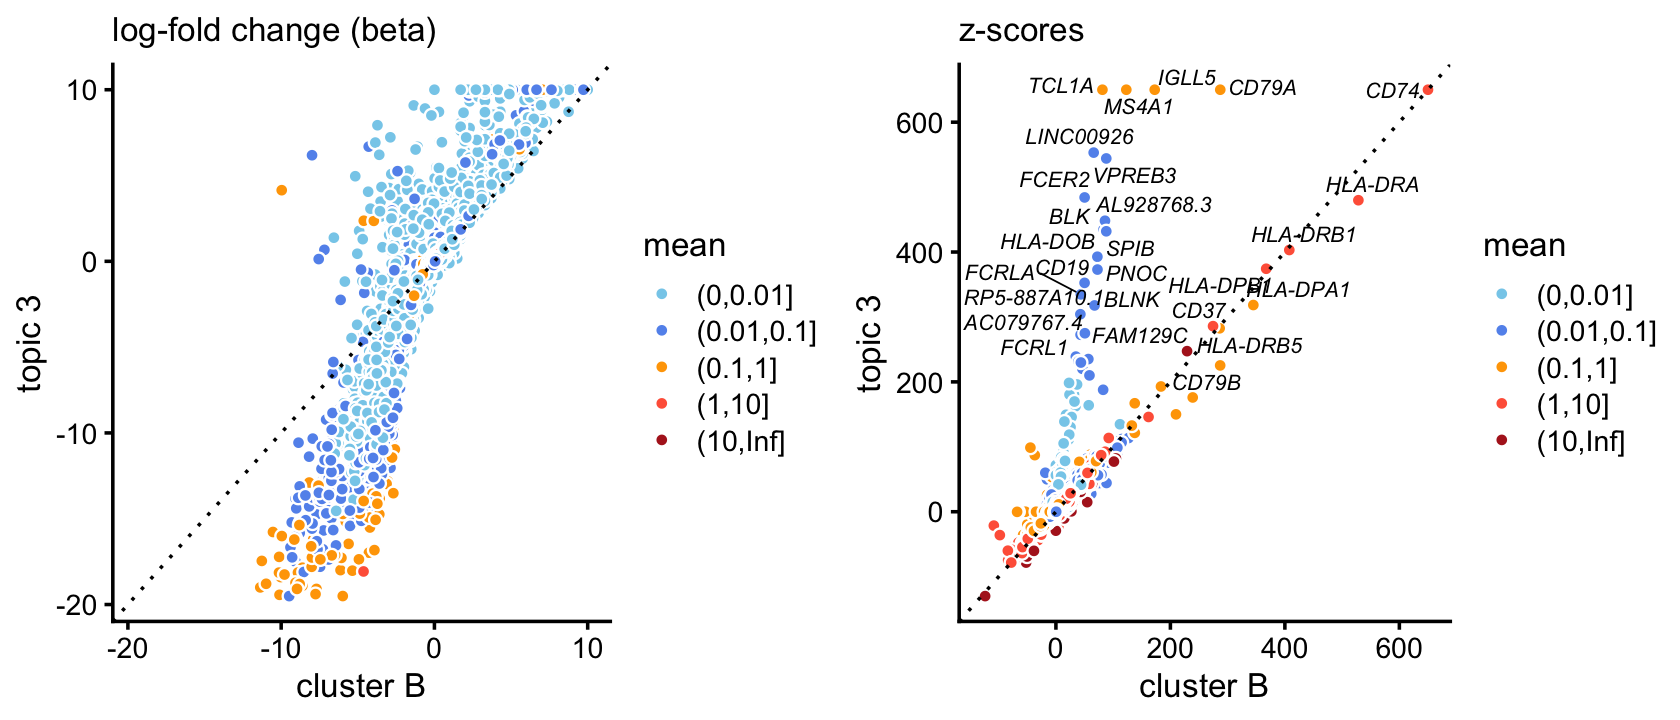
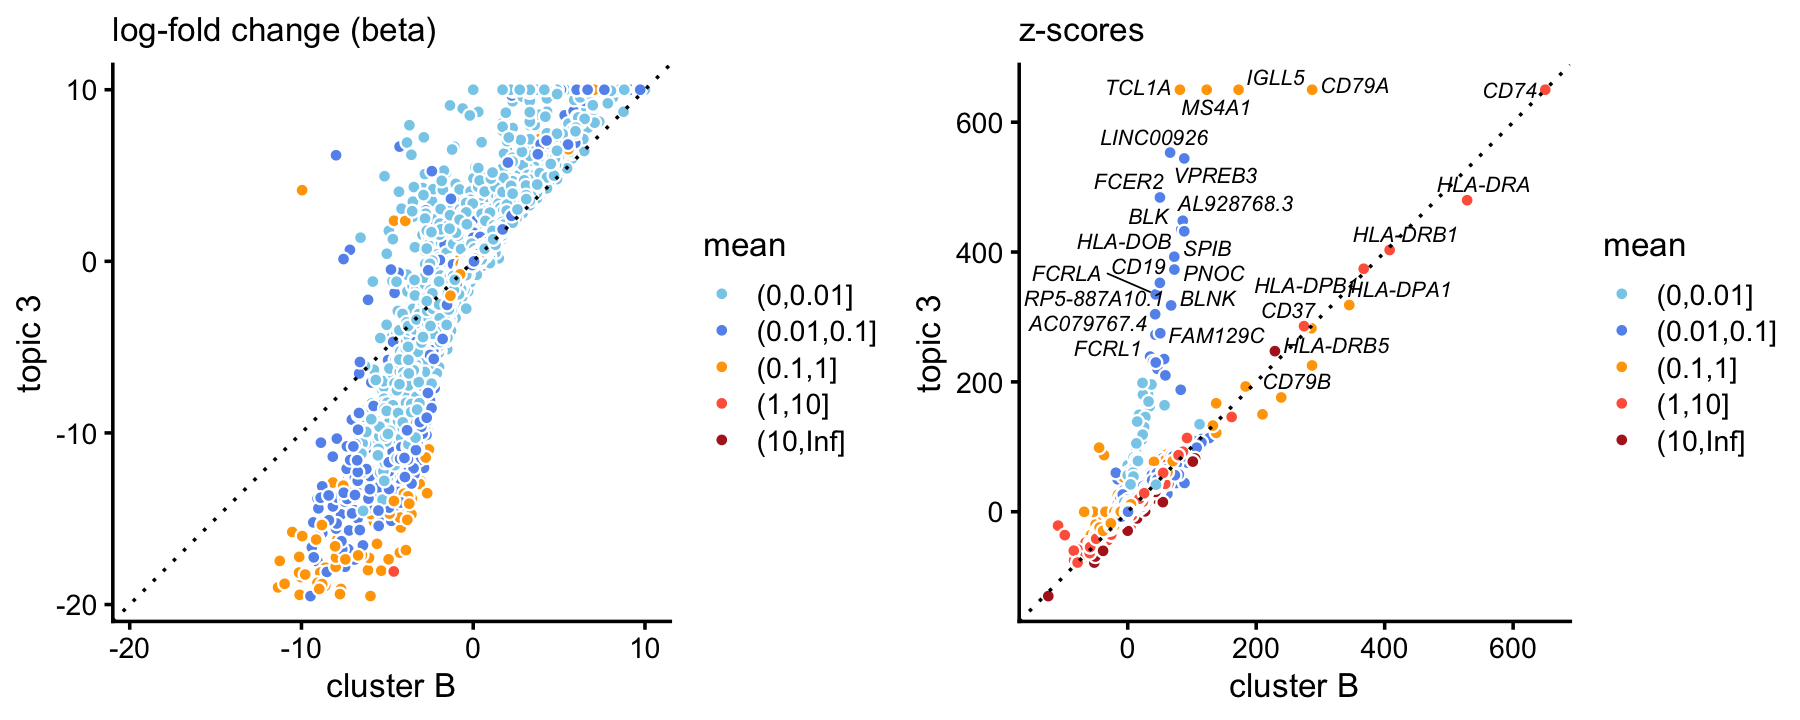
Build site.

diff --git a/docs/bcells_and_nkcells.html b/docs/bcells_and_nkcells.html
@@ -305,7 +305,7 @@ $(document).ready(function () {
 
 <p>
 <button type="button" class="btn btn-default btn-workflowr btn-workflowr-report" data-toggle="collapse" data-target="#workflowr-report">
-<span class="glyphicon glyphicon-list" aria-hidden="true"></span> workflowr <span class="glyphicon glyphicon-ok text-success" aria-hidden="true"></span>
+<span class="glyphicon glyphicon-list" aria-hidden="true"></span> workflowr <span class="glyphicon glyphicon-exclamation-sign text-danger" aria-hidden="true"></span>
 </button>
 </p>
 <div id="workflowr-report" class="collapse">
@@ -314,7 +314,7 @@ $(document).ready(function () {
 <a data-toggle="tab" href="#summary">Summary</a>
 </li>
 <li>
-<a data-toggle="tab" href="#checks"> Checks <span class="glyphicon glyphicon-ok text-success" aria-hidden="true"></span> </a>
+<a data-toggle="tab" href="#checks"> Checks <span class="glyphicon glyphicon-exclamation-sign text-danger" aria-hidden="true"></span> </a>
 </li>
 <li>
 <a data-toggle="tab" href="#versions">Past versions</a>
@@ -326,7 +326,7 @@ $(document).ready(function () {
 <strong>Last updated:</strong> 2020-09-10
 </p>
 <p>
-<strong>Checks:</strong> <span class="glyphicon glyphicon-ok text-success" aria-hidden="true"></span> 7 <span class="glyphicon glyphicon-exclamation-sign text-danger" aria-hidden="true"></span> 0
+<strong>Checks:</strong> <span class="glyphicon glyphicon-ok text-success" aria-hidden="true"></span> 6 <span class="glyphicon glyphicon-exclamation-sign text-danger" aria-hidden="true"></span> 1
 </p>
 <p>
 <strong>Knit directory:</strong> <code>single-cell-topics/analysis/</code> <span class="glyphicon glyphicon-question-sign" aria-hidden="true" title="This is the local directory in which the code in this file was executed."> </span>
@@ -390,12 +390,27 @@ This reproducible <a href="http://rmarkdown.rstudio.com">R Markdown</a> analysis
 <div class="panel panel-default">
 <div class="panel-heading">
 <p class="panel-title">
-<a data-toggle="collapse" data-parent="#workflowr-checks" href="#strongCachestrongnone"> <span class="glyphicon glyphicon-ok text-success" aria-hidden="true"></span> <strong>Cache:</strong> none </a>
+<a data-toggle="collapse" data-parent="#workflowr-checks" href="#strongCachestrongdetected"> <span class="glyphicon glyphicon-exclamation-sign text-danger" aria-hidden="true"></span> <strong>Cache:</strong> detected </a>
 </p>
 </div>
-<div id="strongCachestrongnone" class="panel-collapse collapse">
+<div id="strongCachestrongdetected" class="panel-collapse collapse">
 <div class="panel-body">
-<p>Nice! There were no cached chunks for this analysis, so you can be confident that you successfully produced the results during this run.</p>
+The following chunks had caches available:
+<ul>
+<li>
+diff-count-analysis-clusters-68k
+</li>
+<li>
+diff-count-analysis-clusters-purified
+</li>
+<li>
+diff-count-analysis-pbmc-68k
+</li>
+<li>
+diff-count-analysis-pbmc-purified
+</li>
+</ul>
+<p>To ensure reproducibility of the results, delete the cache directory <code>bcells_and_nkcells_cache</code> and re-run the analysis. To have workflowr automatically delete the cache directory prior to building the file, set <code>delete_cache = TRUE</code> when running <code>wflow_build()</code> or <code>wflow_publish()</code>.</p>
 </div>
 </div>
 </div>
@@ -414,16 +429,16 @@ This reproducible <a href="http://rmarkdown.rstudio.com">R Markdown</a> analysis
 <div class="panel panel-default">
 <div class="panel-heading">
 <p class="panel-title">
-<a data-toggle="collapse" data-parent="#workflowr-checks" href="#strongRepositoryversionstrongahrefhttpsgithubcomstephenslabsinglecelltopicstree5a29ee04a5f2f3c1c5ec0107da42f79c2cad2c09targetblank5a29ee0a"> <span class="glyphicon glyphicon-ok text-success" aria-hidden="true"></span> <strong>Repository version:</strong> <a href="https://github.com/stephenslab/single-cell-topics/tree/5a29ee04a5f2f3c1c5ec0107da42f79c2cad2c09" target="_blank">5a29ee0</a> </a>
+<a data-toggle="collapse" data-parent="#workflowr-checks" href="#strongRepositoryversionstrongahrefhttpsgithubcomstephenslabsinglecelltopicstreebfdd87662263d8f19ca0c98a34f386b5acd5a230targetblankbfdd876a"> <span class="glyphicon glyphicon-ok text-success" aria-hidden="true"></span> <strong>Repository version:</strong> <a href="https://github.com/stephenslab/single-cell-topics/tree/bfdd87662263d8f19ca0c98a34f386b5acd5a230" target="_blank">bfdd876</a> </a>
 </p>
 </div>
[2 lines of base64/hex data omitted]
 <div class="panel-body">
 <p>
 Great! You are using Git for version control. Tracking code development and connecting the code version to the results is critical for reproducibility.
 </p>
 <p>
-The results in this page were generated with repository version <a href="https://github.com/stephenslab/single-cell-topics/tree/5a29ee04a5f2f3c1c5ec0107da42f79c2cad2c09" target="_blank">5a29ee0</a>. See the <em>Past versions</em> tab to see a history of the changes made to the R Markdown and HTML files.
+The results in this page were generated with repository version <a href="https://github.com/stephenslab/single-cell-topics/tree/bfdd87662263d8f19ca0c98a34f386b5acd5a230" target="_blank">bfdd876</a>. See the <em>Past versions</em> tab to see a history of the changes made to the R Markdown and HTML files.
 </p>
 <p>
 Note that you need to be careful to ensure that all relevant files for the analysis have been committed to Git prior to generating the results (you can use <code>wflow_publish</code> or <code>wflow_git_commit</code>). workflowr only checks the R Markdown file, but you know if there are other scripts or data files that it depends on. Below is the status of the Git repository when the results were generated:
@@ -442,6 +457,9 @@ Ignored files:
     Ignored:    output/pbmc-purified/rds/
     Ignored:    output/pulseseq/fits-pulseseq.RData
     Ignored:    output/pulseseq/rds/
+
+Untracked files:
+    Untracked:  analysis/bcells_and_nkcells_cache/
 
 </code></pre>
 <p>
@@ -480,6 +498,40 @@ Message
 </tr>
 </thead>
 <tbody>
+<tr>
+<td>
+Rmd
+</td>
+<td>
+<a href="https://github.com/stephenslab/single-cell-topics/blob/bfdd87662263d8f19ca0c98a34f386b5acd5a230/analysis/bcells_and_nkcells.Rmd" target="_blank">bfdd876</a>
+</td>
+<td>
+Peter Carbonetto
+</td>
+<td>
+2020-09-10
+</td>
+<td>
+workflowr::wflow_publish(“bcells_and_nkcells.Rmd”, verbose = TRUE)
+</td>
+</tr>
+<tr>
+<td>
+html
+</td>
+<td>
+<a href="https://rawcdn.githack.com/stephenslab/single-cell-topics/23834e36dfc7b62c2be1a456220157034ca9974d/docs/bcells_and_nkcells.html" target="_blank">23834e3</a>
+</td>
+<td>
+Peter Carbonetto
+</td>
+<td>
+2020-09-10
+</td>
+<td>
+Fixed results in bcells_and_nkcells analysis after addressing
+</td>
+</tr>
 <tr>
 <td>
 Rmd
@@ -810,7 +862,7 @@ Added notes to plots_pbmc; committed pbmc-clustering.RData output.
 </div>
 </div>
 </div>
-<p>In the <a href="plots_pbmc.html">previous analysis</a> of the purified and 68k PBMC data sets, we identified clusters in both data sets corresponding to B-cells and natural killer cells. Each of these clusters is characterized by high proportions from a single topic. Here we show a surprising result: the clusters are enriched for the top marker genes for these cell types (e.g., <em>CD79A</em>, <em>NKG7</em>), but not the associated topics.</p>
+<p>In the <a href="plots_pbmc.html">previous analysis</a> of the purified and 68k PBMC data sets, we identified clusters in both data sets corresponding to B-cells and natural killer cells. Each of these clusters is characterized by high proportions from a single topic. Here we show that the clusters are enriched for top marker genes for these cell types (e.g., <em>CD79A</em>, <em>NKG7</em>), but the topics always show increased enrichment for these genes.</p>
 <p>Load the packages used in the analysis below.</p>
 <pre class="r"><code>library(Matrix)
 library(dplyr)
@@ -911,8 +963,45 @@ p2 &lt;- zscores_scatterplot(diff_count_clusters_purified$Z[,&quot;B&quot;],
                           zmax = 650) +
   labs(x = &quot;cluster B&quot;,y = &quot;topic 3&quot;,title = &quot;z-scores&quot;)
 plot_grid(p1,p2)</code></pre>
-<p><img src="figure/bcells_and_nkcells.Rmd/pbmc-purified-3-vs-B-1.png" width="840" style="display: block; margin: auto;" /></p>
-<p>B-cell marker <em>CD79A</em> only emerges in the cluster, and shows no enrichment in the corresponding topic. This is not a fluke—we observe the exact same result in the 68k data when we compare the gene-wise <em>z</em>-scores from topic 5 to the <em>z</em>-scores from cluster A2:</p>
+<p><img src="figure/bcells_and_nkcells.Rmd/pbmc-purified-3-vs-B-1.png" width="900" style="display: block; margin: auto;" /></p>
+<p>
+<button type="button" class="btn btn-default btn-xs btn-workflowr btn-workflowr-fig" data-toggle="collapse" data-target="#fig-pbmc-purified-3-vs-B-1">
+Past versions of pbmc-purified-3-vs-B-1.png
+</button>
+</p>
+<div id="fig-pbmc-purified-3-vs-B-1" class="collapse">
+<div class="table-responsive">
+<table class="table table-condensed table-hover">
+<thead>
+<tr>
+<th>
+Version
+</th>
+<th>
+Author
+</th>
+<th>
+Date
+</th>
+</tr>
+</thead>
+<tbody>
+<tr>
+<td>
+<a href="https://github.com/stephenslab/single-cell-topics/blob/23834e36dfc7b62c2be1a456220157034ca9974d/docs/figure/bcells_and_nkcells.Rmd/pbmc-purified-3-vs-B-1.png" target="_blank">23834e3</a>
+</td>
+<td>
+Peter Carbonetto
+</td>
+<td>
+2020-09-10
+</td>
+</tr>
+</tbody>
+</table>
+</div>
+</div>
+<p>B-cell marker <em>CD79A</em>, for example, emerges in the cluster and the topic, but its enrichment is much stronger in the topic. We observe the same result in the 68k data when we compare the gene-wise <em>z</em>-scores from topic 5 to the <em>z</em>-scores from cluster A2:</p>
 <pre class="r"><code>p3 &lt;- logfoldchange_scatterplot(diff_count_clusters_68k$beta[,&quot;A2&quot;],
                                 diff_count_68k$beta[,5],
                                 diff_count_68k$colmeans) +
@@ -925,7 +1014,7 @@ p4 &lt;- zscores_scatterplot(diff_count_clusters_68k$Z[,&quot;A2&quot;],
                           zmax = 500) +
   labs(x = &quot;cluster A2&quot;,y = &quot;topic 5&quot;,title = &quot;z-scores&quot;)
 plot_grid(p3,p4)</code></pre>
-<p><img src="figure/bcells_and_nkcells.Rmd/z-scores-pbmc-68k-5-vs-A2-1.png" width="840" style="display: block; margin: auto;" /></p>
+<p><img src="figure/bcells_and_nkcells.Rmd/z-scores-pbmc-68k-5-vs-A2-1.png" width="900" style="display: block; margin: auto;" /></p>
 <p>
 <button type="button" class="btn btn-default btn-xs btn-workflowr btn-workflowr-fig" data-toggle="collapse" data-target="#fig-z-scores-pbmc-68k-5-vs-A2-1">
 Past versions of z-scores-pbmc-68k-5-vs-A2-1.png
@@ -948,6 +1037,17 @@ Date
 </tr>
 </thead>
 <tbody>
+<tr>
+<td>
+<a href="https://github.com/stephenslab/single-cell-topics/blob/23834e36dfc7b62c2be1a456220157034ca9974d/docs/figure/bcells_and_nkcells.Rmd/z-scores-pbmc-68k-5-vs-A2-1.png" target="_blank">23834e3</a>
+</td>
+<td>
+Peter Carbonetto
+</td>
+<td>
+2020-09-10
+</td>
+</tr>
 <tr>
 <td>
 <a href="https://github.com/stephenslab/single-cell-topics/blob/8cdad6c2d9eea4282b8057cbd614a86ec8792db9/docs/figure/bcells_and_nkcells.Rmd/z-scores-pbmc-68k-5-vs-A2-1.png" target="_blank">8cdad6c</a>
@@ -977,7 +1077,7 @@ Peter Carbonetto
 </div>
 <div id="nk-cells" class="section level2">
 <h2>NK cells</h2>
-<p>We observe a similar—yet more striking—result in natural killer cells. In the purified data set, compare the gene-wise <em>z</em>-scores from topic 4 to the <em>z</em>-scores from cluster A1:</p>
+<p>We observe a similar result in natural killer cells. In the purified data set, compare the gene-wise <em>z</em>-scores from topic 4 to the <em>z</em>-scores from cluster A1:</p>
 <pre class="r"><code>p5 &lt;- logfoldchange_scatterplot(diff_count_clusters_purified$beta[,&quot;A1&quot;],
                                 diff_count_purified$beta[,4],
                                 diff_count_purified$colmeans) +
@@ -990,7 +1090,7 @@ p6 &lt;- zscores_scatterplot(diff_count_clusters_purified$Z[,&quot;A1&quot;],
                           zmax = 750) +
   labs(x = &quot;cluster A1&quot;,y = &quot;topic 4&quot;,title = &quot;z-scores&quot;)
 plot_grid(p5,p6)</code></pre>
-<p><img src="figure/bcells_and_nkcells.Rmd/z-scores-pbmc-purified-4-vs-A1-1.png" width="840" style="display: block; margin: auto;" /></p>
+<p><img src="figure/bcells_and_nkcells.Rmd/z-scores-pbmc-purified-4-vs-A1-1.png" width="900" style="display: block; margin: auto;" /></p>
 <p>
 <button type="button" class="btn btn-default btn-xs btn-workflowr btn-workflowr-fig" data-toggle="collapse" data-target="#fig-z-scores-pbmc-purified-4-vs-A1-1">
 Past versions of z-scores-pbmc-purified-4-vs-A1-1.png
@@ -1013,6 +1113,17 @@ Date
 </tr>
 </thead>
 <tbody>
+<tr>
+<td>
+<a href="https://github.com/stephenslab/single-cell-topics/blob/23834e36dfc7b62c2be1a456220157034ca9974d/docs/figure/bcells_and_nkcells.Rmd/z-scores-pbmc-purified-4-vs-A1-1.png" target="_blank">23834e3</a>
+</td>
+<td>
+Peter Carbonetto
+</td>
+<td>
+2020-09-10
+</td>
+</tr>
 <tr>
 <td>
 <a href="https://github.com/stephenslab/single-cell-topics/blob/8cdad6c2d9eea4282b8057cbd614a86ec8792db9/docs/figure/bcells_and_nkcells.Rmd/z-scores-pbmc-purified-4-vs-A1-1.png" target="_blank">8cdad6c</a>
@@ -1039,8 +1150,7 @@ Peter Carbonetto
 </table>
 </div>
 </div>
-<p>Genes <em>NKG7</em> and <em>GNLY</em> (granulysin), both characteristic NK genes, are very strongly enriched in the cluster, and not at all in the topic.</p>
-<p>The 68k data, comparing the gene-wise <em>z</em>-scores from topic 3 to the <em>z</em>-scores from cluster A1b, replicates this striking result:</p>
+<p>Genes <em>NKG7</em> and <em>GNLY</em> (granulysin), both examples of characteristic NK genes, are strongly enriched in the cluster, and moreso in the topic. The 68k data yields a similar result:</p>
 <pre class="r"><code>p7 &lt;- logfoldchange_scatterplot(diff_count_clusters_68k$beta[,&quot;A1b&quot;],
                                 diff_count_68k$beta[,3],
                                 diff_count_68k$colmeans) +
@@ -1049,9 +1159,70 @@ p8 &lt;- zscores_scatterplot(diff_count_clusters_68k$Z[,&quot;A1b&quot;],
                           diff_count_68k$Z[,3],
                           diff_count_68k$colmeans,
                           genes_68k$symbol,
-                          label_above_score = 250) +
+                          label_above_score = 200,
+                          zmax = 750) +
   labs(x = &quot;cluster A1b&quot;,y = &quot;topic 3&quot;,title = &quot;z-scores&quot;)
 plot_grid(p7,p8)</code></pre>
+<p><img src="figure/bcells_and_nkcells.Rmd/z-scores-pbmc-68k-3-vs-A1b-1.png" width="900" style="display: block; margin: auto;" /></p>
+<p>
+<button type="button" class="btn btn-default btn-xs btn-workflowr btn-workflowr-fig" data-toggle="collapse" data-target="#fig-z-scores-pbmc-68k-3-vs-A1b-1">
+Past versions of z-scores-pbmc-68k-3-vs-A1b-1.png
+</button>
+</p>
+<div id="fig-z-scores-pbmc-68k-3-vs-A1b-1" class="collapse">
+<div class="table-responsive">
+<table class="table table-condensed table-hover">
+<thead>
+<tr>
+<th>
+Version
+</th>
+<th>
+Author
+</th>
+<th>
+Date
+</th>
+</tr>
+</thead>
+<tbody>
+<tr>
+<td>
+<a href="https://github.com/stephenslab/single-cell-topics/blob/23834e36dfc7b62c2be1a456220157034ca9974d/docs/figure/bcells_and_nkcells.Rmd/z-scores-pbmc-68k-3-vs-A1b-1.png" target="_blank">23834e3</a>
+</td>
+<td>
+Peter Carbonetto
+</td>
+<td>
+2020-09-10
+</td>
+</tr>
+<tr>
+<td>
+<a href="https://github.com/stephenslab/single-cell-topics/blob/8cdad6c2d9eea4282b8057cbd614a86ec8792db9/docs/figure/bcells_and_nkcells.Rmd/z-scores-pbmc-68k-3-vs-A1b-1.png" target="_blank">8cdad6c</a>
+</td>
+<td>
+Peter Carbonetto
+</td>
+<td>
+2020-09-08
+</td>
+</tr>
+<tr>
+<td>
+<a href="https://github.com/stephenslab/single-cell-topics/blob/35d7ca956fd58dc08832828276e03e2940d9eae5/docs/figure/bcells_and_nkcells.Rmd/z-scores-pbmc-68k-3-vs-A1b-1.png" target="_blank">35d7ca9</a>
+</td>
+<td>
+Peter Carbonetto
+</td>
+<td>
+2020-09-08
+</td>
+</tr>
+</tbody>
+</table>
+</div>
+</div>
 <p>These results suggest the clusters and topics appear to be highlighting different biological patterns.</p>
 <br>
 <p>
@@ -1092,17 +1263,16 @@ plot_grid(p7,p8)</code></pre>
 # [28] munsell_0.5.0        compiler_3.6.2       httpuv_1.5.2        
 # [31] xfun_0.11            pkgconfig_2.0.3      mcmc_0.9-6          
 # [34] htmltools_0.4.0      tidyselect_0.2.5     tibble_2.1.3        
-# [37] workflowr_1.6.2.9000 quadprog_1.5-8       codetools_0.2-16    
-# [40] viridisLite_0.3.0    crayon_1.3.4         withr_2.1.2         
-# [43] later_1.0.0          MASS_7.3-51.4        grid_3.6.2          
-# [46] jsonlite_1.6         gtable_0.3.0         lifecycle_0.1.0     
-# [49] git2r_0.26.1         magrittr_1.5         scales_1.1.0        
-# [52] RcppParallel_4.4.2   stringi_1.4.3        farver_2.0.1        
-# [55] fs_1.3.1             promises_1.1.0       vctrs_0.2.1         
-# [58] tools_3.6.2          glue_1.3.1           purrr_0.3.3         
-# [61] hms_0.5.2            yaml_2.2.0           colorspace_1.4-1    
-# [64] plotly_4.9.2         knitr_1.26           quantreg_5.54       
-# [67] MCMCpack_1.4-5</code></pre>
+# [37] workflowr_1.6.2.9000 quadprog_1.5-8       viridisLite_0.3.0   
+# [40] crayon_1.3.4         withr_2.1.2          later_1.0.0         
+# [43] MASS_7.3-51.4        grid_3.6.2           jsonlite_1.6        
+# [46] gtable_0.3.0         lifecycle_0.1.0      git2r_0.26.1        
+# [49] magrittr_1.5         scales_1.1.0         RcppParallel_4.4.2  
+# [52] stringi_1.4.3        farver_2.0.1         fs_1.3.1            
+# [55] promises_1.1.0       vctrs_0.2.1          tools_3.6.2         
+# [58] glue_1.3.1           purrr_0.3.3          hms_0.5.2           
+# [61] yaml_2.2.0           colorspace_1.4-1     plotly_4.9.2        
+# [64] knitr_1.26           quantreg_5.54        MCMCpack_1.4-5</code></pre>
 </div>
 </div>
 
